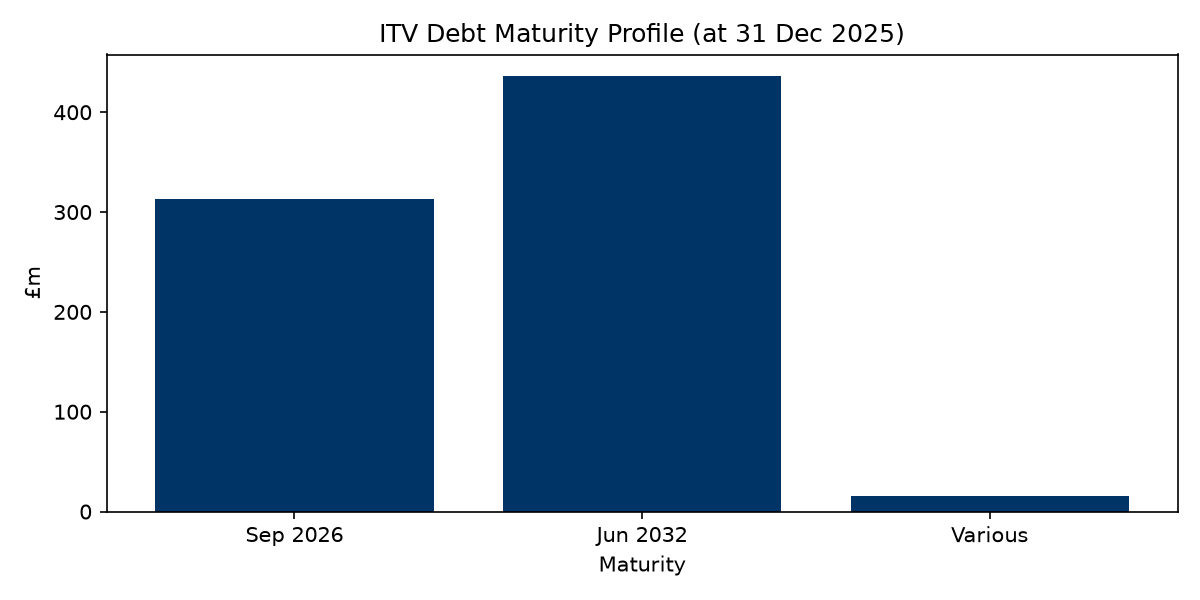
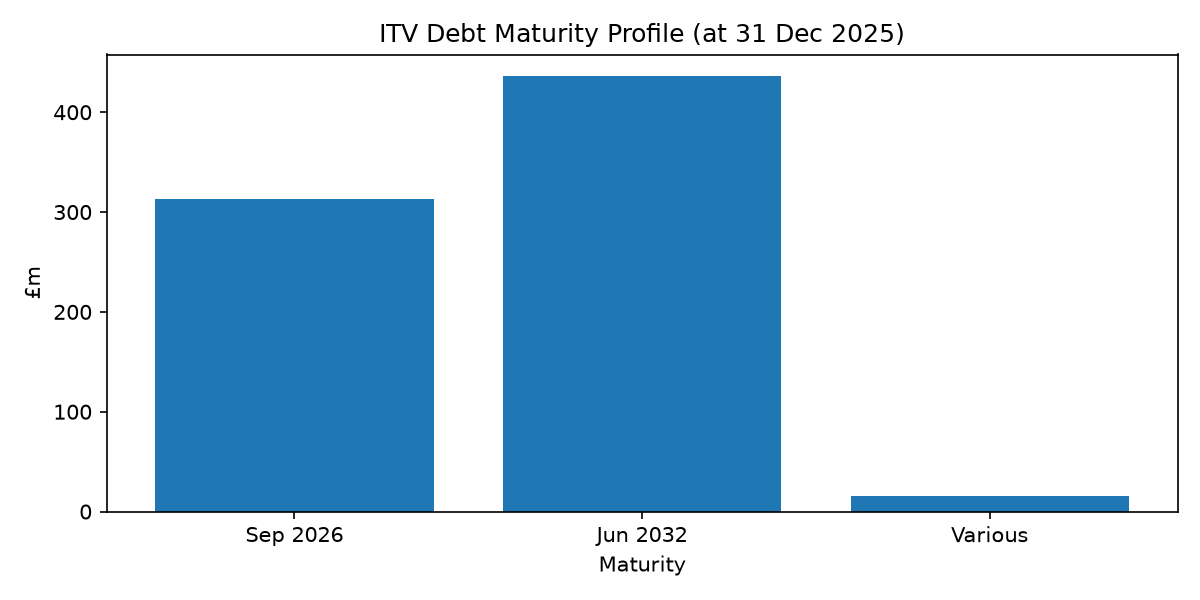
Add scenarios, liquidity sensitivity and automated charts

Changed region(s): [[0.4008, 0.12, 0.6783, 0.87], [0.1233, 0.33, 0.37, 0.87], [0.7092, 0.81, 0.9558, 0.87]]

diff --git a/src/charts.py b/src/charts.py
@@ -1,14 +1,22 @@
+"""
+charts.py
+Regenerates the three chart PNGs.
+Chart 1 reads data/debt_maturities.csv; charts 2 and 3 read outputs/model_outputs.csv,
+which is exported from the Export sheet of the Excel model.
+"""
+import os
+
 import pandas as pd
 import matplotlib.pyplot as plt
-import os
 
 os.makedirs("outputs/charts", exist_ok=True)
 
+# Chart 1: debt maturity profile
 mat = pd.read_csv("data/debt_maturities.csv")
 mat = mat[mat["carrying_value"] > 0]
 
 plt.figure(figsize=(8, 4))
-plt.bar(mat["maturity"], mat["carrying_value"], color="#003366")
+plt.bar(mat["maturity"], mat["carrying_value"])
 plt.title("ITV Debt Maturity Profile (at 31 Dec 2025)")
 plt.xlabel("Maturity")
 plt.ylabel("£m")
@@ -16,4 +24,35 @@ plt.tight_layout()
 plt.savefig("outputs/charts/debt_maturity.png", dpi=150)
 plt.close()
 
-print("Chart saved to outputs/charts/debt_maturity.png")
+# Chart 2: covenant leverage
+model = pd.read_csv("outputs/model_outputs.csv")
+limit = model["CovenantLimit"].iloc[0]
+
+plt.figure(figsize=(8, 4))
+plt.plot(model["Year"], model["CovenantLeverage_Base"], marker="o", label="Covenant leverage")
+plt.axhline(y=limit, linestyle="--", color="grey", label=f"Covenant limit {limit:.1f}x")
+plt.title("ITV Covenant Leverage (Net Debt / Covenant Adjusted EBITDA)")
+plt.xlabel("Year")
+plt.ylabel("x")
+plt.legend()
+plt.grid(True, alpha=0.3)
+plt.tight_layout()
+plt.savefig("outputs/charts/leverage_trend.png", dpi=150)
+plt.close()
+
+# Chart 3: net debt under scenarios
+plt.figure(figsize=(8, 4))
+plt.plot(model["Year"], model["NetDebt_Base"], marker="o", label="Base")
+plt.plot(model["Year"], model["NetDebt_Downside"], marker="s", label="Downside")
+plt.plot(model["Year"], model["NetDebt_Upside"], marker="^", label="Upside")
+plt.axhline(y=0, linewidth=0.5, color="black")
+plt.title("ITV Projected Net Debt Under Scenarios")
+plt.xlabel("Year")
+plt.ylabel("Net debt (£m)")
+plt.legend()
+plt.grid(True, alpha=0.3)
+plt.tight_layout()
+plt.savefig("outputs/charts/scenarios.png", dpi=150)
+plt.close()
+
+print("All 3 charts saved to outputs/charts/")
